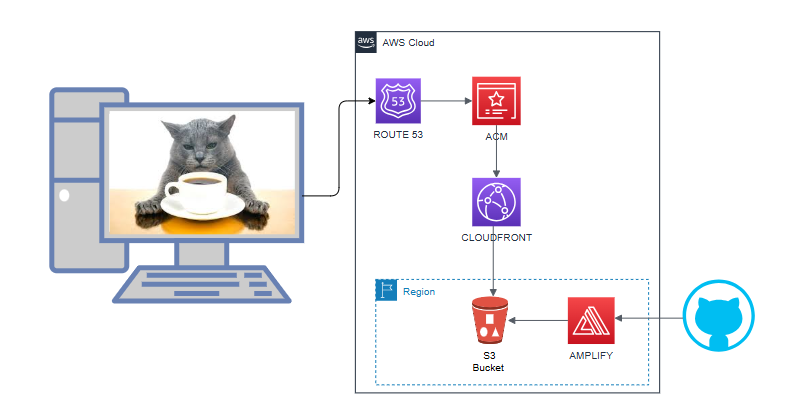
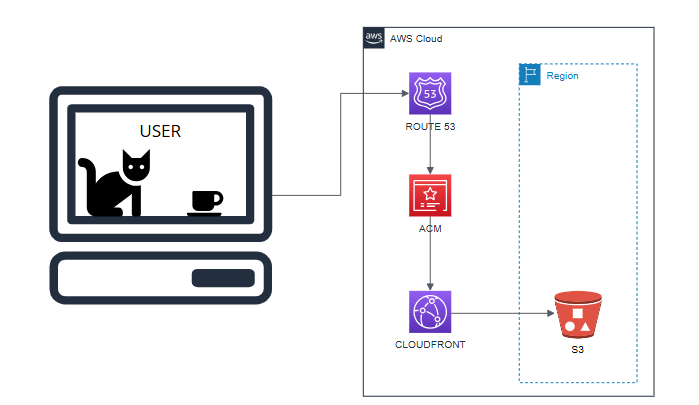
readme v.1.2

diff --git a/README.MD b/README.MD
@@ -27,33 +27,16 @@ cafe-gatinho/
 
 ## 🧱 Componentes da Arquitetura
 
-### 1. 🗂 GitHub
-- **Função**: Armazenar o código-fonte do site.
-- **Responsabilidade**: Todo o conteúdo do site (`index.html`, `style.css`, `script.js`, etc) fica versionado no repositório.
-- **Ação**: Sempre que houver um `git push` para a branch principal (ex: `main`), o GitHub notificará o AWS Amplify para iniciar o processo de deploy.
-
----
-
-### 2. 🚀 AWS Amplify
-- **Função**: Plataforma de CI/CD para front-end.
-- **Responsabilidade**:
-  - Conecta-se ao repositório GitHub.
-  - Detecta mudanças e inicia o pipeline de build.
-  - Faz o deploy automático do site no bucket S3.
-- **Observação**: Amplify cria e gerencia os recursos de forma regional.
-
----
-
-### 3. 🪣 Amazon S3
+### 1. 🪣 Amazon S3
 - **Função**: Armazenamento de arquivos estáticos do site.
 - **Responsabilidade**:
   - Guarda os arquivos HTML, CSS, JS e imagens.
   - Funciona como origem para a distribuição via CDN.
-- **Observação**: O bucket é criado automaticamente pelo Amplify e configurado para hosting estático.
+- **Observação**: O bucket é configurado manualmente para hosting estático com permissões públicas de leitura.
 
 ---
 
-### 4. 🌍 Amazon CloudFront
+### 2. 🌍 Amazon CloudFront
 - **Função**: Distribuição de conteúdo com alta performance (CDN).
 - **Responsabilidade**:
   - Serve os arquivos do S3 para os usuários através da rede global da AWS.
@@ -62,7 +45,7 @@ cafe-gatinho/
 
 ---
 
-### 5. 📛 Amazon Route 53
+### 3. 📛 Amazon Route 53
 - **Função**: Gerenciamento de DNS e domínio personalizado.
 - **Responsabilidade**:
   - Aponta o domínio `www.cafecomgatinho.com` para o CloudFront.
@@ -71,7 +54,7 @@ cafe-gatinho/
 
 ---
 
-### 6. 🔐 AWS Certificate Manager (ACM)
+### 4. 🔐 AWS Certificate Manager (ACM)
 - **Função**: Gerenciar e provisionar certificados SSL/TLS.
 - **Responsabilidade**:
   - Fornece o certificado SSL para o CloudFront.
@@ -80,7 +63,7 @@ cafe-gatinho/
 
 ---
 
-### 7. 👩💻 Usuário Final
+### 5. 👩💻 Usuário Final
 - **Ação**: Acessa o site digitando `https://www.cafecomgatinho.com` no navegador.
 - **Fluxo**:
   1. O navegador consulta o DNS via Route 53.
@@ -93,11 +76,12 @@ cafe-gatinho/
 
 ## ✅ Benefícios da Arquitetura
 
-- 🚀 **Deploy automático** com cada push no GitHub
-- 🌐 **Alta disponibilidade** com entrega global via CloudFront
-- 🔒 **HTTPS incluso** com SSL gratuito
-- 📦 **Baixo custo** com S3 e escalabilidade automática
-- 🌱 **Fácil de manter e escalar** conforme o site cresce
+- 🌐 **Alta disponibilidade** com entrega global via CloudFront  
+- 🔒 **HTTPS incluso** com SSL gratuito via ACM  
+- 📦 **Baixo custo** com S3 e escalabilidade automática  
+- 🌱 **Fácil de manter e escalar** conforme o site cresce  
+- 🛠 **Controle total do deploy** com upload manual ou via CLI/scripts
+
 
 
 
